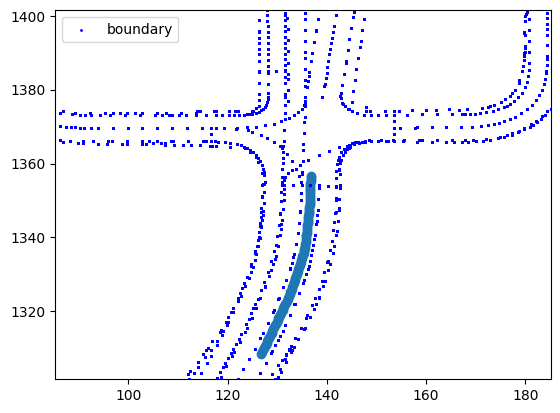
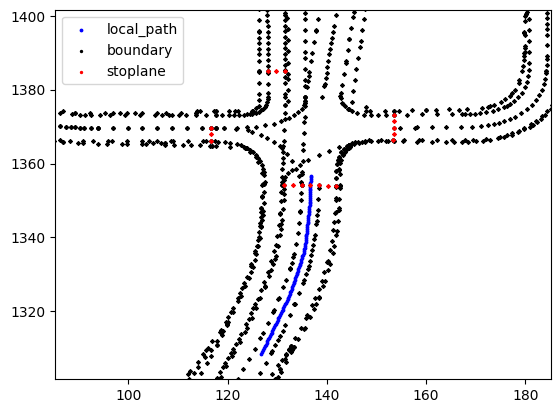
ch plot
Former-commit-id: 1115a0f3a8f5735c031770ccb2f2c5225ca76361

Changed region(s): [[0.0911, 0.0291, 1.0, 0.9298], [0.1821, 0.0581, 0.3339, 0.2034]]

diff --git a/JANGJEEUNG/morai-standard-ad-algorithm/autonomous_driving.py b/JANGJEEUNG/morai-standard-ad-algorithm/autonomous_driving.py
@@ -168,12 +168,16 @@ for i in range(len(surface_marking_set)):
             point_surface_marking_set.append(surface_marking_set[i]["points"][k][:2])
 
 point_lane_boundary_set = []
+point_lane_boundary_set_530 = []
 
 for i in range(len(lane_boundary_set)):
     for j in range(len(lane_boundary_set[i])):
         for k in range(len(lane_boundary_set[i]["points"])):
-            point_lane_boundary_set.append(lane_boundary_set[i]["points"][k][:2])
-
+            if lane_boundary_set[i]["lane_type"] != 530:
+                point_lane_boundary_set.append(lane_boundary_set[i]["points"][k][:2])
+            else:
+                point_lane_boundary_set_530.append(lane_boundary_set[i]["points"][k][:2])
+                
 point_link_set = []
 
 for i in range(len(link_set)):
@@ -212,6 +216,7 @@ for i in range(len(node_set)):
 np_link = np.array(point_link_set)
 np_node = np.array(point_node_set)
 np_lane_boundary_set = np.array(point_lane_boundary_set)
+np_lane_boundary_set_530 = np.array(point_lane_boundary_set_530)
 np_lane_node_set = np.array(point_lane_node_set)
 np_singlecrosswalk_set = np.array(point_singlecrosswalk_set)
 np_surface_marking_set = np.array(point_surface_marking_set)
@@ -239,7 +244,7 @@ np_traffic_sign_set = np.array(point_traffic_sign_set)
 #     except:
 #         break
 
-# 정지선을 파악해야되는 local_path
+# # 정지선을 파악해야되는 local_path
 # local_path = [
 #  [126.814949,1308.591064]
 # ,[126.987305,1309.064453]
@@ -452,7 +457,7 @@ np_local_path = np.array(local_path)
 
 #%%
 
-plt.scatter(*np_local_path.T)
+plt.scatter(*np_local_path.T, c="blue", s = 3, label="local_path")
 
 ego_size_x = 5
 ego_size_y = 1.5
@@ -481,7 +486,8 @@ plt.ylim([ego_y - 50 , ego_y + 50])
 # plt.ylim([1450, 1550])
 
 # 차선 바운더리
-plt.scatter(*np_lane_boundary_set.T, c="blue", s = 1, label="boundary")
+plt.scatter(*np_lane_boundary_set.T, c="black", s = 2, label="boundary")
+plt.scatter(*np_lane_boundary_set_530.T, c="red", s = 2, label="stoplane")
 # plt.scatter(*np_lane_node_set.T, c="red", s = 5, label="lane_node")
 
 # # 차선 노드, 링크
